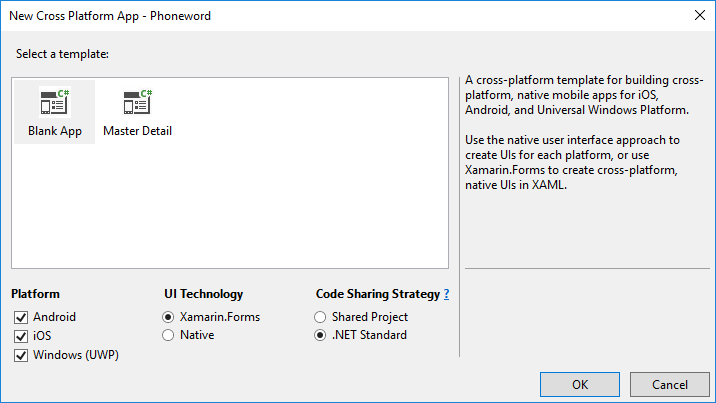
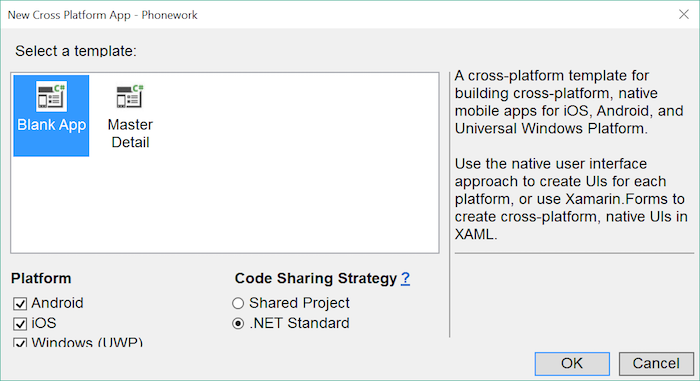
update VS screenshot (#231)
fixes point 1 of https://devdiv.visualstudio.com/DevDiv/XamarinVS/_workitems/edit/604649

diff --git a/docs/xamarin-forms/get-started/hello-xamarin-forms/quickstart.md b/docs/xamarin-forms/get-started/hello-xamarin-forms/quickstart.md
@@ -6,7 +6,7 @@ ms.assetid: 3f2f9c2d-d204-43bc-8c8a-a55ce1e6d2c8
 ms.technology: xamarin-forms
 author: davidbritch
 ms.author: dabritch
-ms.date: 02/06/2018
+ms.date: 04/26/2018
 ---
 
 # Xamarin.Forms Quickstart
@@ -31,7 +31,7 @@ Create the Phoneword application as follows:
 
     ![](quickstart-images/vs/new-project.png "Cross-Platform Project Templates")
 
-4. In the **New Cross Platform App** dialog, click **Blank App**, select **Xamarin.Forms** as the UI Technology, select **.NET Standard** as the Code Sharing Strategy, and click the **OK** button:
+4. In the **New Cross Platform App** dialog, click **Blank App**, select **.NET Standard** as the Code Sharing Strategy, and click the **OK** button:
 
     ![](quickstart-images/vs/new-app.png "New Cross-Platform App")
 
